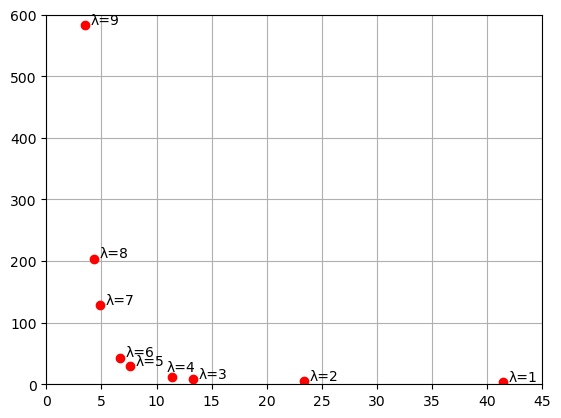
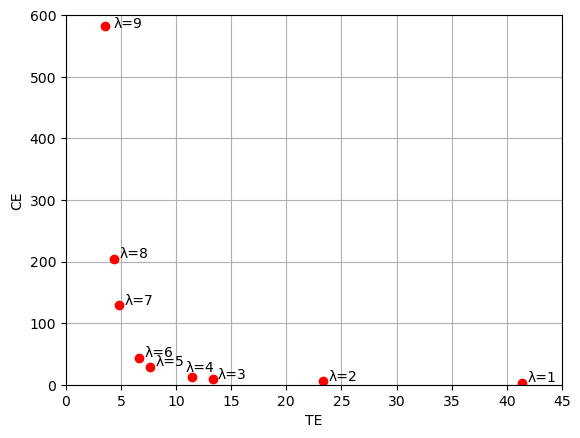
Plot axis labels

diff --git a/src/task_1/ex1.py b/src/task_1/ex1.py
@@ -110,12 +110,16 @@ TE = [41.408539592113364,
 
 plt.plot(TE, CE, 'ro', label=labels)
 plt.axis([0, 45, 0, 600])
+plt.xlabel("TE")
+plt.ylabel("CE")
 
 for i in range(9):
-    if i not in (2,3):
+    if i not in (2,3,8):
         plt.text(TE[i]+0.5,CE[i]+2,"λ=%d"%(i+1))
     elif i == 2:
         plt.text(TE[i]+0.5,CE[i],"λ=%d"%(i+1))
+    elif i == 8:
+        plt.text(TE[i]+0.8,CE[i]-3,"λ=%d"%(i+1))
     else:
         plt.text(TE[i]-0.5,CE[i]+10,"λ=%d"%(i+1))
 
